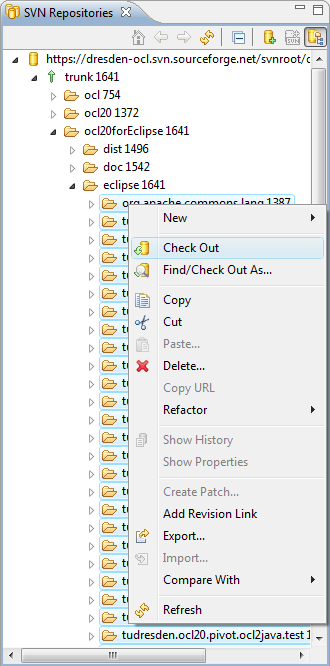
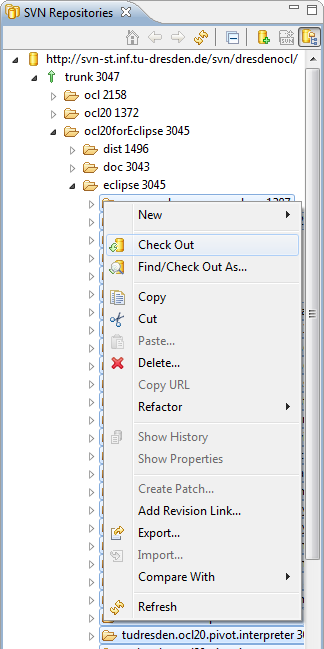
Replaced references to SVN location in manual sources.

Changed region(s): [[0.0, 0.0, 1.0, 1.0]]

diff --git a/ocl20forEclipse/doc/tex/chapters/introduction.tex b/ocl20forEclipse/doc/tex/chapters/introduction.tex
@@ -116,12 +116,12 @@ providing access to \acs{SVN} should exist. The perspective can be opened via
 the menu \eclipse{Window > Open Perpective > Other... > SVN Repository
 Exploring}. In the view \eclipse{\acs{SVN} Repositories} you can add a new 
 repository using the \acs{URL} 
-\url{https://dresden-ocl.svn.sourceforge.net/svnroot/dresden-ocl/} (cf. 
+\url{http://svn-st.inf.tu-dresden.de/svn/dresdenocl/} (cf. 
 Fig.~\ref{pic:intro:svn01}).
 
 \begin{figure}[!b]
 	\centering
-	\includegraphics[width=0.5\linewidth]{figures/introduction/svn01}
+	\includegraphics[width=0.4\linewidth]{figures/introduction/svn01}
 	\caption{Adding an SVN repository.}
 	\label{pic:intro:svn01}
 \end{figure}
@@ -134,7 +134,7 @@ function in the context menu (cf. Fig.~\ref{pic:intro:svn02}).
 	
 \begin{figure}[!t]
 	\centering
-	\includegraphics[width=0.5\linewidth]{figures/introduction/svn02}
+	\includegraphics[width=0.4\linewidth]{figures/introduction/svn02}
 	\caption{Checkout of Dresden OCL's plug-in projects.}
 	\label{pic:intro:svn02}
 \end{figure}

diff --git a/ocl20forEclipse/doc/tex/chapters/standalone.tex b/ocl20forEclipse/doc/tex/chapters/standalone.tex
@@ -17,7 +17,7 @@ available.
 
 The easiest way to use the standalone application is to check out the provided 
 example at 
-\code{https://dresden-ocl.svn.sourceforge.net/svnroot/dresden-ocl/trunk/ocl20forEclipse/\linebreak[0]stand\-a\-lone/\linebreak[0]tudresden.ocl20.pivot.standalone.example}.
+\code{http://svn-st.inf.tu-dresden.de/svn/dresdenocl/trunk/ocl20forEclipse/\linebreak[0]stand\-a\-lone/\linebreak[0]tudresden.ocl20.pivot.standalone.example}.
 It can be used as an Eclipse Java project (not plug-in project), can be imported
 into Netbeans or can be used from the command line as an Eclipse runtime is not 
 required. The structure of the example is described below.
